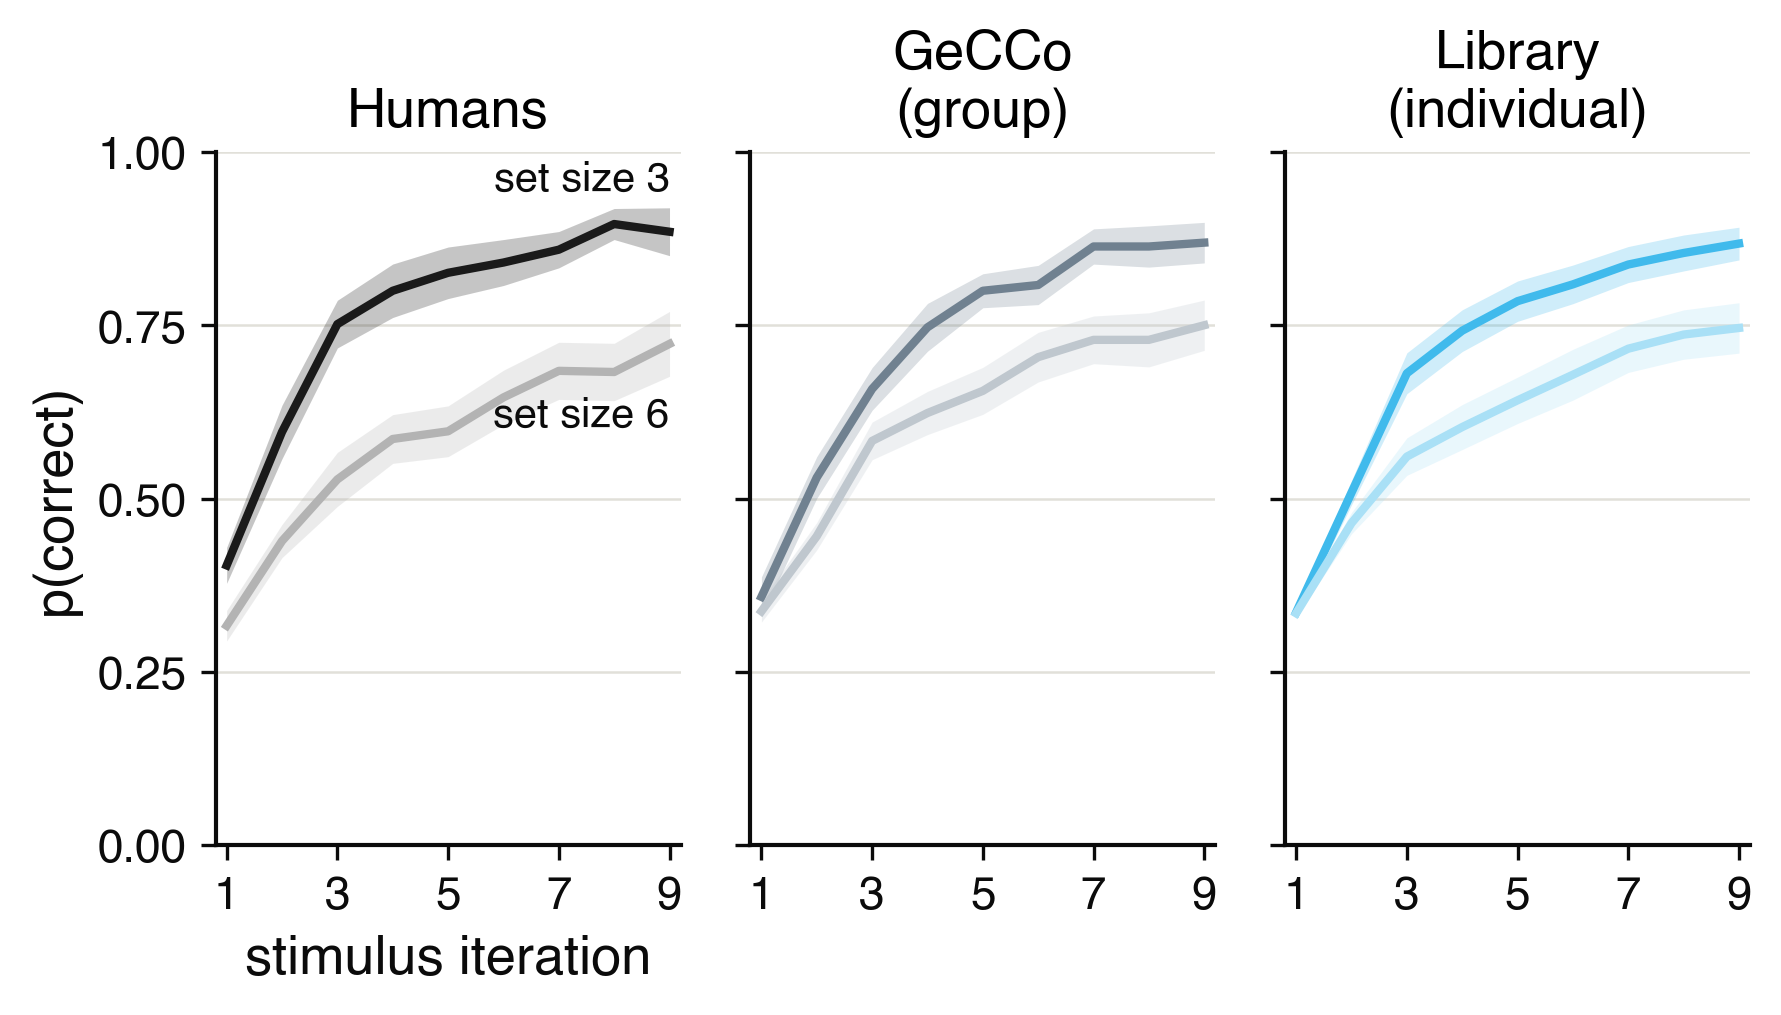
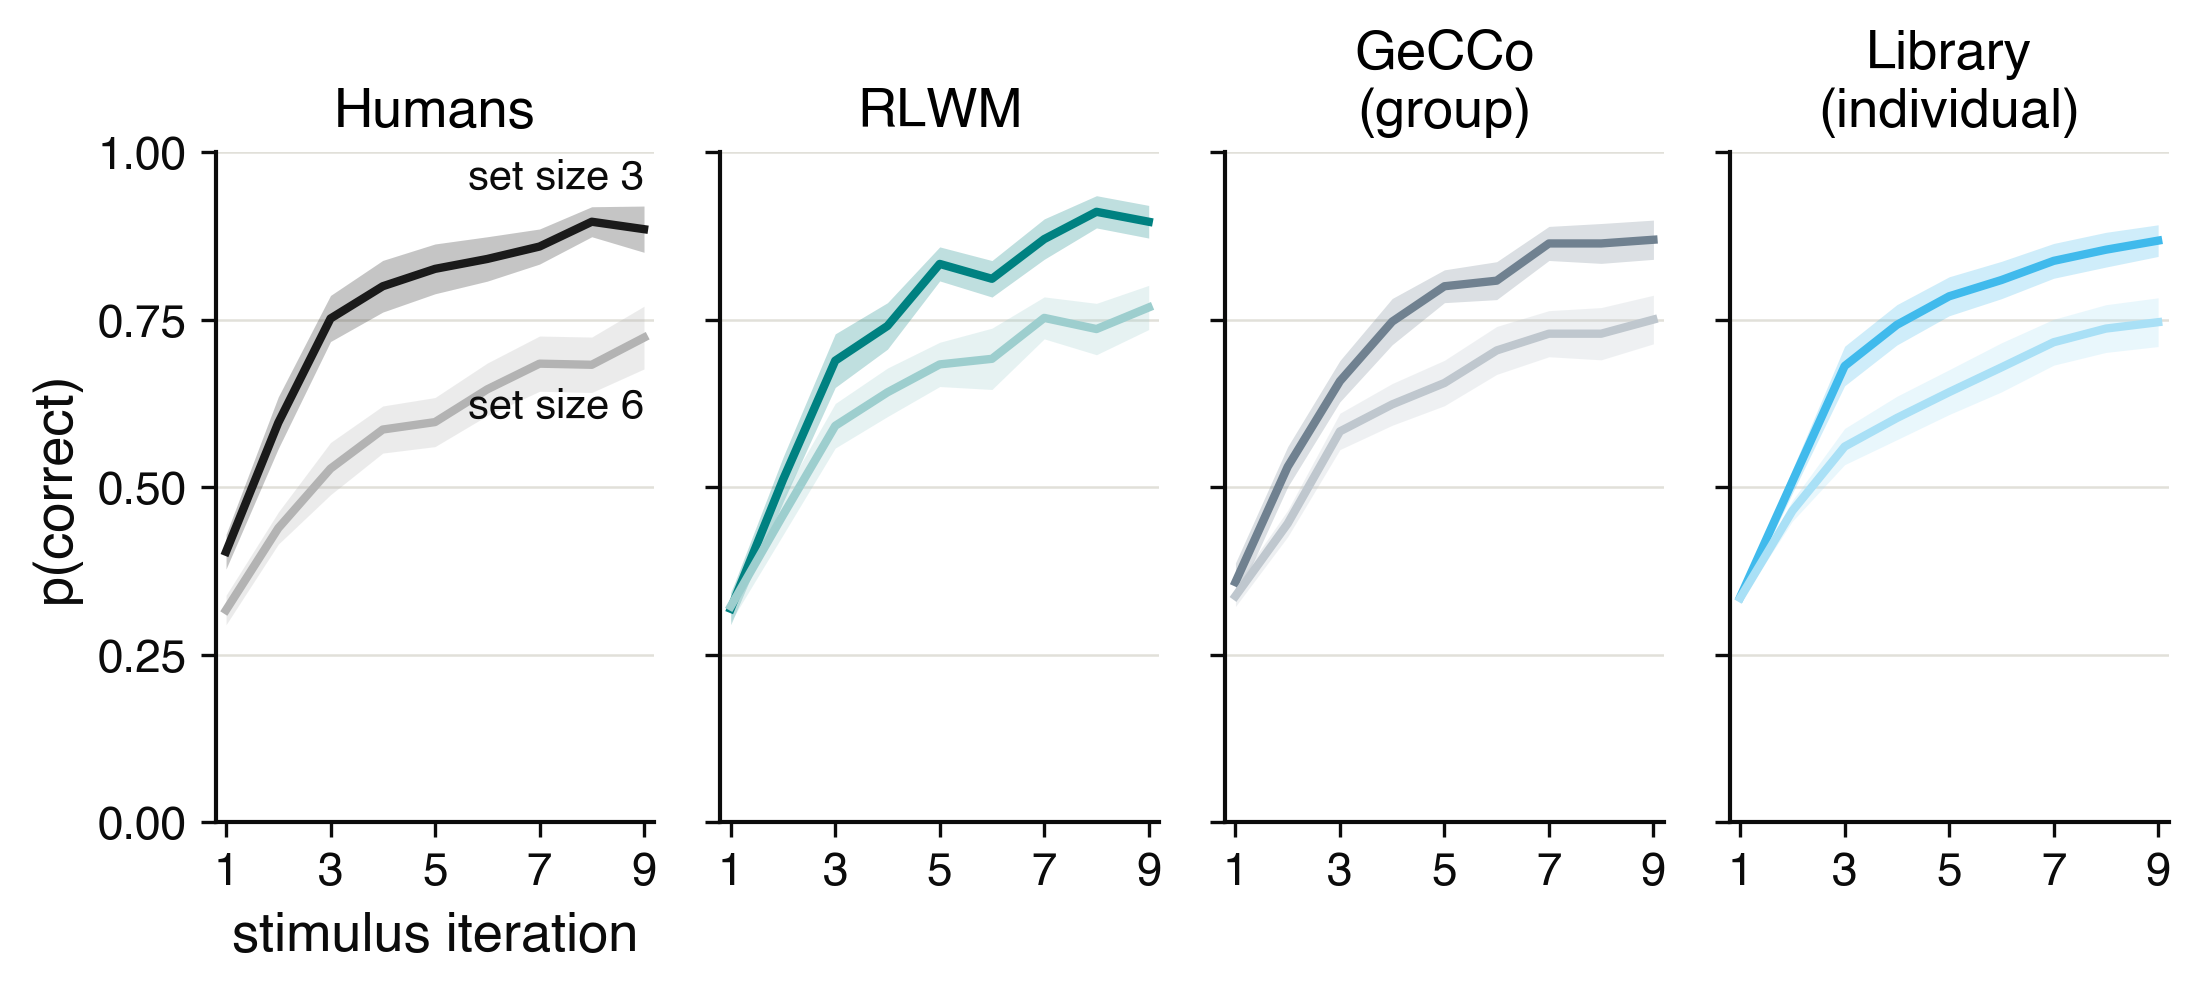
figure: add RLWM (baseline) panel to library PPC — Humans/RLWM/GeCCo(group)/Library(individual)

diff --git a/analysis/rlwm/plot_ppc_library.py b/analysis/rlwm/plot_ppc_library.py
@@ -42,9 +42,10 @@ PIDS = list(range(15)) + list(range(36, 51))
 N_SIM_REPS = 20
 N_ITERS = 9
 
-BLACK, GRAY, DBLUE, BLUE = "#1a1a1a", "#708190", "#2b6cb8", "#40baec"
+BLACK, TEAL, GRAY, BLUE = "#1a1a1a", "#008181", "#708190", "#40baec"
 INK, GRID = "#0b0b0b", "#e1e0d9"
-LIGHT = {BLACK: "#b3b3b3", GRAY: "#bfc7ce", DBLUE: "#9dc4ea", BLUE: "#a9e0f6"}
+LIGHT = {BLACK: "#b3b3b3", TEAL: "#9dcece", GRAY: "#bfc7ce", BLUE: "#a9e0f6"}
+LIT_SIM_CSV = ANALYSIS_DIR / "rlwm_literature_model_simulated.csv"
 
 plt.rcParams.update({
     "font.family": "sans-serif", "font.sans-serif": ["Helvetica", "Arial", "DejaVu Sans"],
@@ -196,6 +197,19 @@ def library_curves(df, inv, per_pid_modules):
     return np.array(ns3), np.array(ns6)
 
 
+def baseline_curves(lit):
+    """RLWM literature-model simulated learning curves (same 30 pids)."""
+    ns3, ns6 = [], []
+    for p in PIDS:
+        d = lit[lit.participant == p]
+        if "blocks" in d.columns:
+            d = d[d.blocks < 5]
+        d = d[d.rewards >= 0]
+        c3, c6 = learning_curves(d)
+        ns3.append(c3); ns6.append(c6)
+    return np.array(ns3), np.array(ns6)
+
+
 def group_gecco_curves():
     """Pooled young+old GeCCo-group PPC curves saved by the main pipeline."""
     ns3 = pd.concat([pd.read_csv(ANALYSIS_DIR / "ns3_young_group_age.csv", index_col=0),
@@ -238,17 +252,20 @@ def main():
     perpid = json.load(open(LC / "perpid_plotspan_results.json"))
     indiv_mods = {r["pid"]: r["modules"] for r in perpid}
 
-    print("simulating human / gecco(group) / library(individual) curves...")
+    print("simulating human / RLWM / gecco(group) / library(individual) curves...")
     h3, h6 = human_curves(df)
+    b3, b6 = baseline_curves(pd.read_csv(LIT_SIM_CSV))
     gg3, gg6 = group_gecco_curves()
     i3, i6 = library_curves(df, inv_full, indiv_mods)
-    for lbl, c3, c6 in [("human", h3, h6), ("gecco-group", gg3, gg6), ("lib-indiv", i3, i6)]:
+    for lbl, c3, c6 in [("human", h3, h6), ("RLWM", b3, b6),
+                        ("gecco-group", gg3, gg6), ("lib-indiv", i3, i6)]:
         print("  %-12s ss3 final %.2f | ss6 final %.2f"
               % (lbl, np.nanmean(c3, 0)[-1], np.nanmean(c6, 0)[-1]))
 
-    panels = [("Humans", h3, h6, BLACK), ("GeCCo\n(group)", gg3, gg6, GRAY),
+    panels = [("Humans", h3, h6, BLACK), ("RLWM", b3, b6, TEAL),
+              ("GeCCo\n(group)", gg3, gg6, GRAY),
               ("Library\n(individual)", i3, i6, BLUE)]
-    fig, axes = plt.subplots(1, 3, figsize=(6.6, 3.0), sharey=True)
+    fig, axes = plt.subplots(1, 4, figsize=(8.4, 2.9), sharey=True)
     for i, (ax, (title, ns3, ns6, color)) in enumerate(zip(axes, panels)):
         draw(ax, ns3, ns6, color, ylabel=(i == 0), xlabel=(i == 0), annotate=(i == 0))
         ax.set_title(title)
